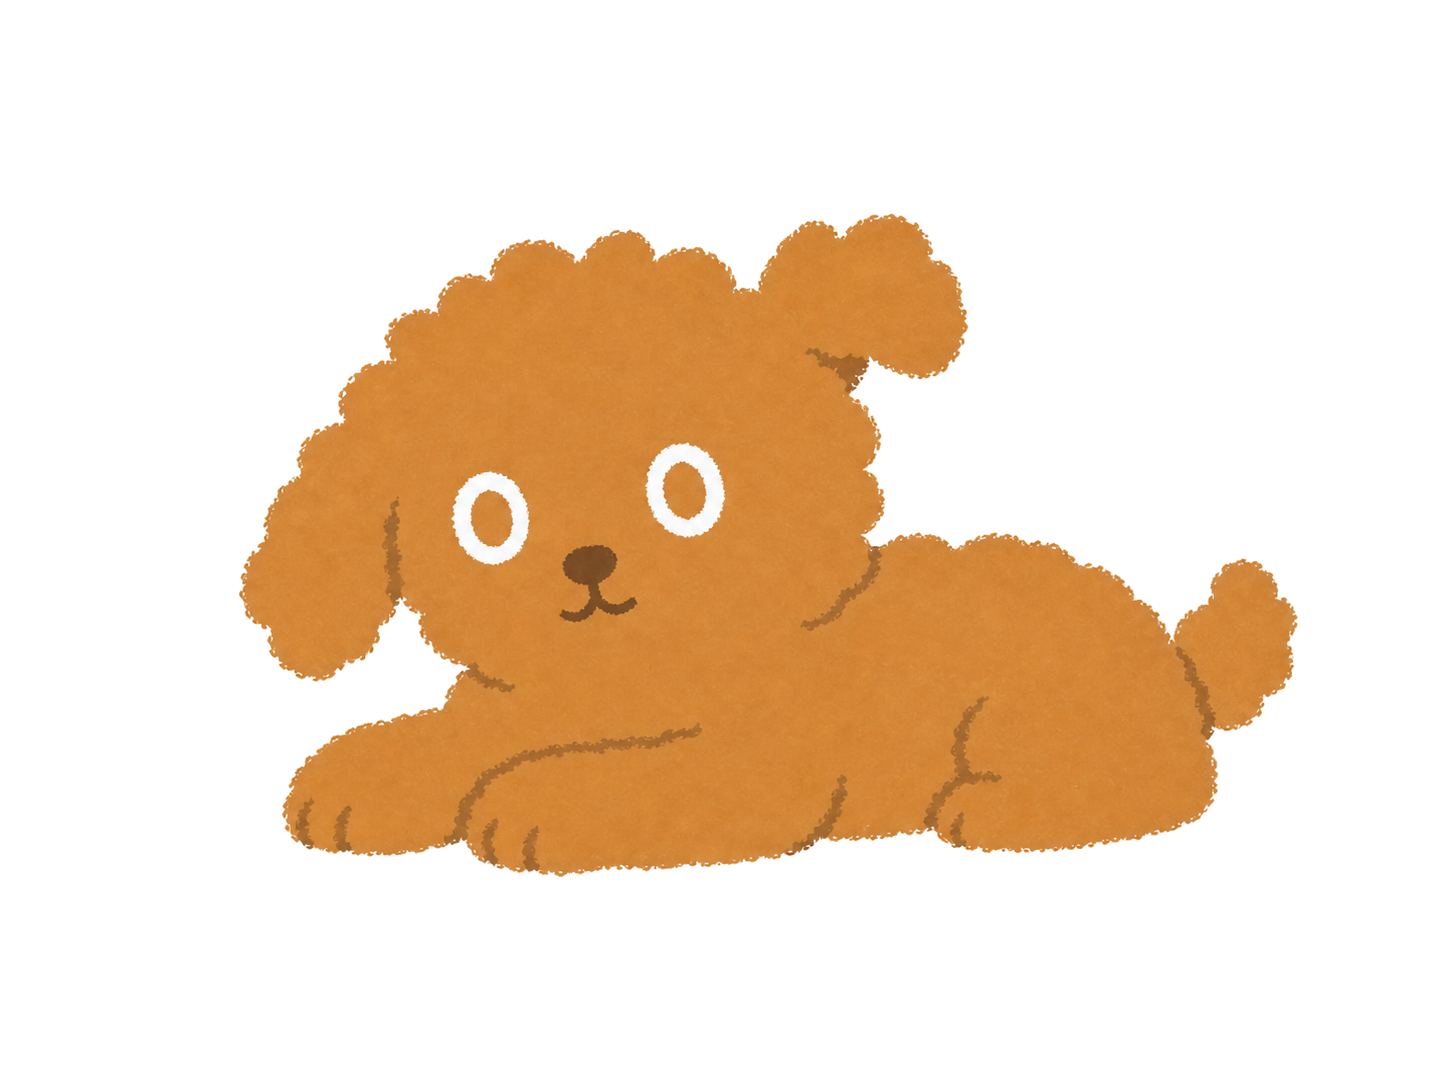
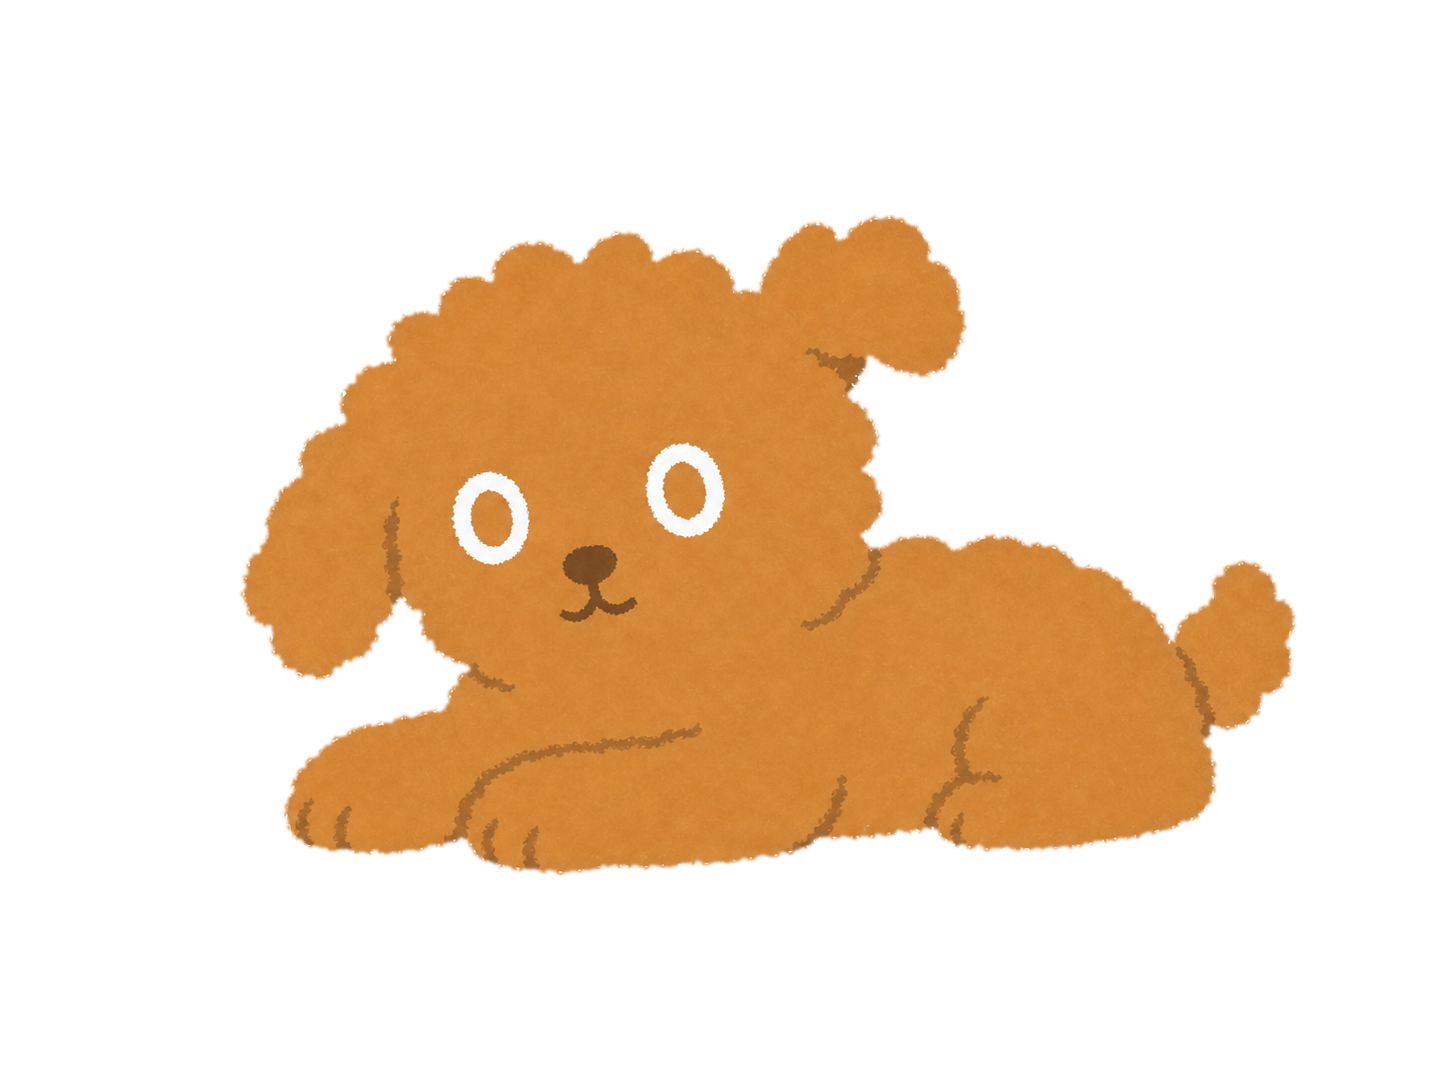
Soften launch site mascot edges

diff --git a/server/site/index.html b/server/site/index.html
@@ -7,7 +7,7 @@
     <meta name="description" content="TeoPateo is a quit-smoking companion for craving moments, quit plans, check-ins, and non-shaming slip recovery.">
     <link rel="icon" type="image/png" href="/assets/app-icon.png?v=20260712">
     <link rel="apple-touch-icon" href="/assets/app-icon.png?v=20260712">
-    <link rel="stylesheet" href="/styles.css?v=20260712-scene1">
+    <link rel="stylesheet" href="/styles.css?v=20260712-scene2">
   </head>
   <body>
     <header class="site-header">
@@ -46,7 +46,7 @@
           </div>
           <div class="scene-bottom">
             <div class="mascot-stage">
-              <img src="/assets/teo-waiting.png" alt="TeoPateo mascot waiting calmly">
+              <img src="/assets/teo-waiting.png?v=20260712-soft1" alt="TeoPateo mascot waiting calmly">
             </div>
             <div class="coach-bubble next-move">
               <strong>Next move</strong>

diff --git a/server/site/privacy/index.html b/server/site/privacy/index.html
@@ -7,7 +7,7 @@
     <meta name="description" content="TeoPateo privacy policy for local quit-plan data, AI coach sharing, crash diagnostics, and user choices.">
     <link rel="icon" type="image/png" href="/assets/app-icon.png?v=20260712">
     <link rel="apple-touch-icon" href="/assets/app-icon.png?v=20260712">
-    <link rel="stylesheet" href="/styles.css?v=20260712-scene1">
+    <link rel="stylesheet" href="/styles.css?v=20260712-scene2">
   </head>
   <body>
     <header class="site-header">

diff --git a/server/site/styles.css b/server/site/styles.css
@@ -405,7 +405,7 @@ a {
   padding: 28px;
   background:
     linear-gradient(180deg, rgba(255, 250, 240, 0.1), rgba(255, 250, 240, 0.88)),
-    url("/assets/teo-walking.png") center 20% / min(270px, 68%) no-repeat,
+    url("/assets/teo-walking.png?v=20260712-soft1") center 20% / min(270px, 68%) no-repeat,
     linear-gradient(145deg, var(--sky), var(--mint));
 }
 

diff --git a/server/site/support/index.html b/server/site/support/index.html
@@ -7,7 +7,7 @@
     <meta name="description" content="Support information for TeoPateo.">
     <link rel="icon" type="image/png" href="/assets/app-icon.png?v=20260712">
     <link rel="apple-touch-icon" href="/assets/app-icon.png?v=20260712">
-    <link rel="stylesheet" href="/styles.css?v=20260712-scene1">
+    <link rel="stylesheet" href="/styles.css?v=20260712-scene2">
   </head>
   <body>
     <header class="site-header">